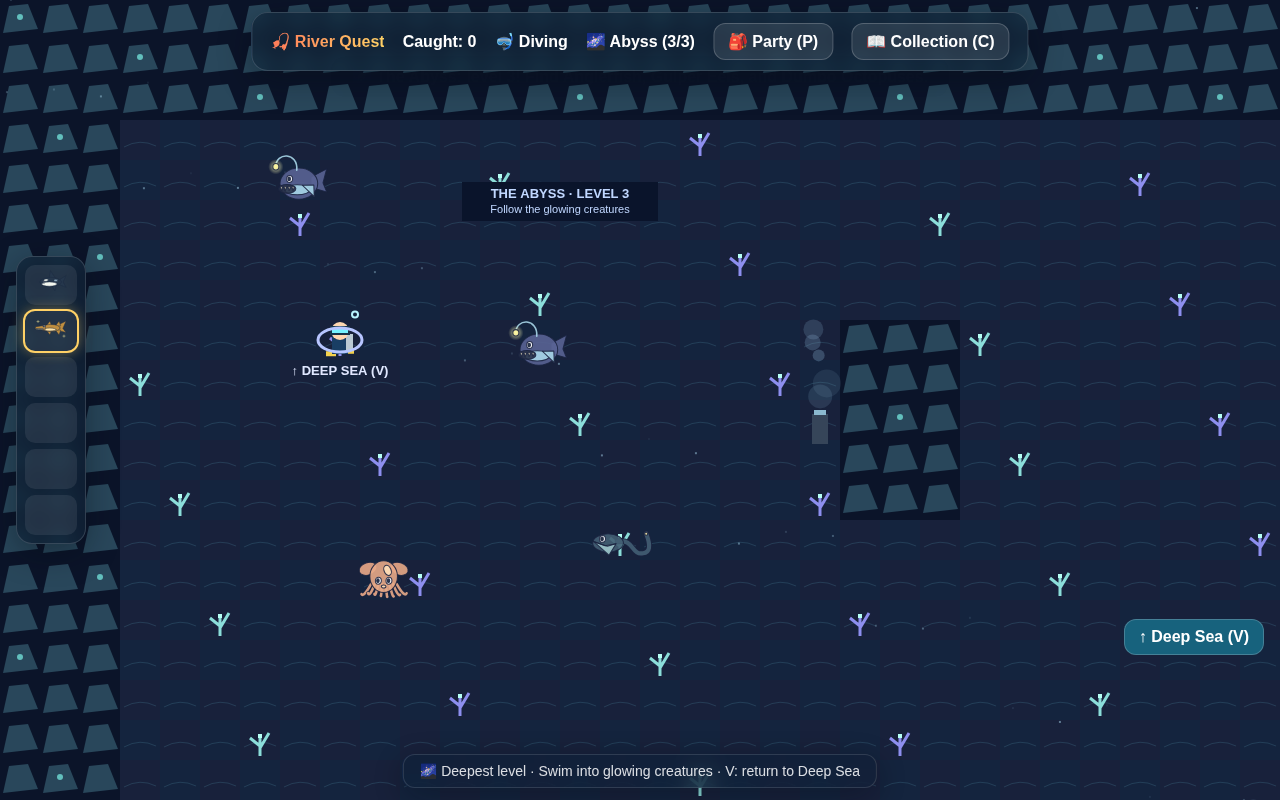
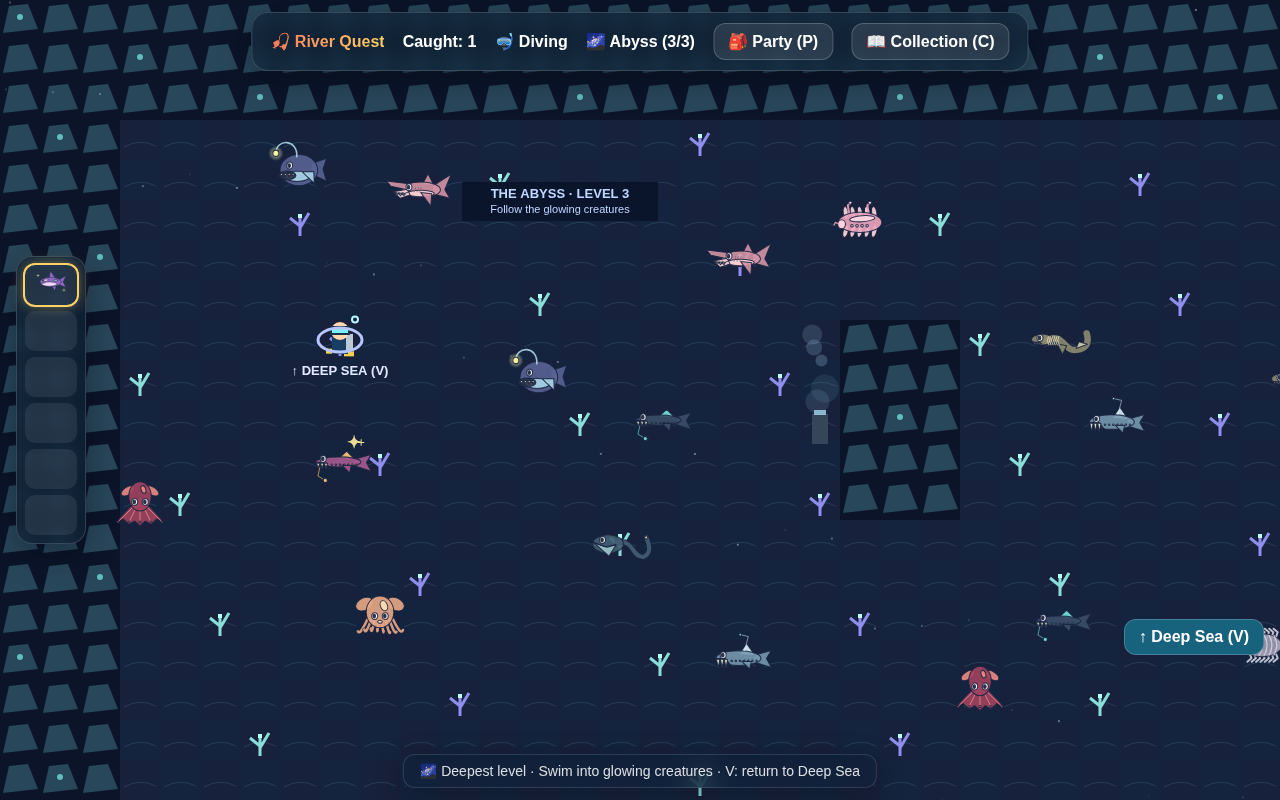
Add nine more Abyss creatures with unique shiny sprites

diff --git a/game.js b/game.js
@@ -53,7 +53,10 @@ const SPECIES = [
   ...[['mosasaurus','Mosasaurus'],['megalodon','Megalodon'],['elasmosaurus','Elasmosaurus']].map(([id,name])=>({
     id,name,water:true,habitat:'deep-generator',rate:1,draw:(...a)=>drawDeepCreature(id,...a),
   })),
-  ...[['anglerfish','Anglerfish'],['gulper-eel','Gulper Eel'],['dumbo-octopus','Dumbo Octopus']].map(([id,name])=>({
+  ...[['anglerfish','Anglerfish'],['gulper-eel','Gulper Eel'],['dumbo-octopus','Dumbo Octopus'],
+    ['goblin-shark','Goblin Shark'],['frilled-shark','Frilled Shark'],['viperfish','Viperfish'],
+    ['dragonfish','Dragonfish'],['barreleye','Barreleye'],['vampire-squid','Vampire Squid'],
+    ['giant-isopod','Giant Isopod'],['nautilus','Nautilus'],['sea-pig','Sea Pig']].map(([id,name])=>({
     id,name,water:true,abyssOnly:true,rate:.95,draw:(...a)=>drawAbyssCreature(id,...a),
   })),
 ];
@@ -202,11 +205,21 @@ function drawCaveCreature(id, c, x, y, s, shiny = false, t = 0) {
 function drawAbyssCreature(id,c,x,y,s,shiny=false,t=0) {
   const palettes={anglerfish:['#596394','#a7d6e8','#c081c4','#fbe2a1'],
     'gulper-eel':['#435e73','#9dc5ca','#9762be','#e5bfff'],
-    'dumbo-octopus':['#e8aa87','#ffe0b9','#81b4e0','#d8f7ff']};
+    'dumbo-octopus':['#e8aa87','#ffe0b9','#81b4e0','#d8f7ff'],
+    'goblin-shark':['#d395a5','#f9d4d5','#76bac9','#d4f9ef'],
+    'frilled-shark':['#8d8c70','#d6cfb0','#ad79cb','#ecd3ff'],
+    viperfish:['#7698af','#d9f4fb','#ddad53','#fff0bd'],
+    dragonfish:['#3b4e68','#75e4db','#a65b90','#ffcc78'],
+    barreleye:['#587b98','#a1ebcb','#ac82c5','#ffda85'],
+    'vampire-squid':['#9e435e','#ed8b83','#597ad3','#b2e4ff'],
+    'giant-isopod':['#9f9baf','#d3d2e2','#d59c6a','#ffe0b4'],
+    nautilus:['#f1d1a5','#b87955','#9bdfcd','#438ca5'],
+    'sea-pig':['#eda6be','#ffd9e3','#8fc9ac','#d8ffe1']};
   const p=palettes[id],body=p[shiny?2:0],light=p[shiny?3:1],sway=Math.sin(t*3)*.12;
   c.save();c.translate(x,y);c.scale(s,s);c.strokeStyle='#1b2440';c.lineWidth=.045;c.lineJoin='round';c.lineCap='round';
   const oval=(x,y,rx,ry,color,angle=0)=>{c.fillStyle=color;c.beginPath();c.ellipse(x,y,rx,ry,angle,0,Math.PI*2);c.fill();c.stroke();};
   const shape=(points,color)=>{c.fillStyle=color;c.beginPath();points.forEach(([x,y],i)=>i?c.lineTo(x,y):c.moveTo(x,y));c.closePath();c.fill();c.stroke();};
+  const line=(points,color,width=.045)=>{c.strokeStyle=color;c.lineWidth=width;c.beginPath();points.forEach(([x,y],i)=>i?c.lineTo(x,y):c.moveTo(x,y));c.stroke();c.strokeStyle='#1b2440';c.lineWidth=.045;};
   const eye=(x,y)=>{oval(x,y,.13,.15,'#fff');oval(x-.02,y,.055,.08,'#17263b');};
   if(id==='anglerfish') {
     shape([[.48,-.2],[1.16,-.5+sway],[1,.05],[1.16,.5+sway],[.48,.25]],body);
@@ -224,7 +237,7 @@ function drawAbyssCreature(id,c,x,y,s,shiny=false,t=0) {
     oval(-.52,.1,.67,.4,body);shape([[-1.16,.02],[-.65,.22],[-.17,.13],[-.48,.63]],light);
     c.beginPath();c.moveTo(-1.15,.04);c.lineTo(-.55,.24);c.lineTo(-.18,.13);c.stroke();
     eye(-.76,-.08);oval(1.14,-.25+sway,.065,.065,'#f7e8a4');
-  } else {
+  } else if(id==='dumbo-octopus') {
     for(let i=0;i<8;i++) {
       const x=-.55+i*.16;c.strokeStyle='#1b2440';c.lineWidth=.17;c.beginPath();c.moveTo(x,.25);
       c.quadraticCurveTo(x*1.6,.9+sway,x*1.75,.72+Math.sin(t*3+i)*.08);c.stroke();c.strokeStyle=body;c.lineWidth=.11;c.stroke();
@@ -233,6 +246,86 @@ function drawAbyssCreature(id,c,x,y,s,shiny=false,t=0) {
     oval(-.68,-.42,.4,.27,body,-.4-sway);oval(.68,-.42,.4,.27,body,.4+sway);
     oval(0,-.08,.6,.69,body);oval(.17,-.35,.15,.23,light,-.4);
     eye(-.23,.1);eye(.23,.1);oval(0,.35,.1,.065,light);
+  } else if(id==='goblin-shark') {
+    shape([[.55,-.13],[1.35,-.7+sway],[1.08,.03],[1.3,.34+sway],[.55,.2]],body);
+    shape([[.1,-.2],[.35,-.67],[.6,-.17]],body);
+    oval(.05,.03,.84,.34,body);oval(.03,.19,.59,.14,light);
+    shape([[-.48,-.23],[-1.45,-.35],[-1.27,-.12],[-.5,.04]],body);
+    shape([[-.55,.01],[-1.18,.12],[-.86,.4],[-.43,.26]],light);
+    line([[-1.13,.14],[-.78,.24],[-.5,.12]],'#1b2440');
+    for(let i=0;i<3;i++)shape([[-1.08+i*.15,.16],[-1+i*.15,.29],[-.94+i*.15,.19]],'#fff9dc');
+    shape([[.03,.15],[.47,.68+sway],[.51,.2]],body);eye(-.48,-.08);
+    for(let i=0;i<3;i++)line([[-.19+i*.12,-.07],[-.25+i*.12,.12]],'#75586d',.03);
+  } else if(id==='frilled-shark') {
+    c.strokeStyle='#1b2440';c.lineWidth=.37;c.beginPath();c.moveTo(-.6,-.03);c.bezierCurveTo(.15,-.4,.17,.5,.73,.38);c.quadraticCurveTo(1.35,.3,1.16,-.39+sway);c.stroke();
+    c.strokeStyle=body;c.lineWidth=.28;c.stroke();c.strokeStyle='#1b2440';c.lineWidth=.045;
+    shape([[.7,.33],[.82,.03],[1.2,.14]],light);
+    shape([[-.13,.13],[.11,.59],[.29,.21]],body);
+    oval(-.77,-.06,.47,.24,body);eye(-.87,-.13);
+    line([[-1.18,.04],[-.79,.12]],'#1b2440');
+    for(let i=0;i<6;i++)line([[-.5+i*.09,-.19],[-.55+i*.09,-.01],[-.48+i*.09,.17]],light,.045);
+    for(let i=0;i<3;i++)shape([[-1.17+i*.11,.05],[-1.11+i*.11,.16],[-1.06+i*.11,.08]],'#fff5d9');
+  } else if(id==='viperfish'||id==='dragonfish') {
+    const dragon=id==='dragonfish';
+    shape([[.61,-.12],[1.36,-.39+sway],[1.15,.02],[1.36,.34+sway],[.61,.17]],body);
+    shape([[-.05,-.16],[.29,dragon?-.47:-.64],[.66,-.1]],light);
+    oval(-.07,0,.98,dragon?.22:.32,body);
+    shape([[-1.08,.01],[-.62,.03],[-.39,.32],[-.99,.24]],'#1d293e');
+    for(let i=0;i<3;i++)shape([[-1.02+i*.17,.04],[-.95+i*.17,dragon?.28:.43],[-.88+i*.17,.06]],'#f4f7dd');
+    eye(-.73,-.13);
+    for(let i=0;i<7;i++)oval(-.36+i*.18,.12,.033,.033,dragon?light:'#a4ffef');
+    shape([[.08,.14],[.42,.48],[.49,.15]],body);
+    if(dragon){line([[-.88,.25],[-.96,.61],[-.64,.74+sway]],light,.03);oval(-.64,.74+sway,.09,.09,light);}
+    else {line([[.2,-.32],[.36,-.94],[.01,-1.02]],light,.025);oval(.01,-1.02,.055,.055,'#a4ffef');}
+  } else if(id==='barreleye') {
+    shape([[.55,-.19],[1.18,-.51+sway],[1.05,0],[1.18,.51+sway],[.55,.2]],light);
+    oval(.06,.1,.85,.38,body);
+    oval(-.49,-.2,.58,.53,shiny?'#dcb5ed88':'#c2fff488');
+    for(const x of[-.69,-.36]){oval(x,-.23,.13,.28,light,-.15);oval(x-.02,-.42,.09,.07,shiny?'#fff2ac':'#deffb4');}
+    c.strokeStyle='#d8ffff';c.lineWidth=.025;c.beginPath();c.ellipse(-.49,-.2,.58,.53,0,Math.PI,Math.PI*1.6);c.stroke();c.strokeStyle='#1b2440';c.lineWidth=.045;
+    oval(-.88,.12,.04,.04,'#25304a');line([[-.98,.25],[-.73,.29]],'#1b2440',.03);
+    shape([[.01,.19],[.35,.65],[.6,.23]],light);
+  } else if(id==='vampire-squid') {
+    const hem=.85+sway;
+    shape([[0,-.2],[-1.04,hem],[-.73,hem-.13],[-.48,hem+.12],[-.23,hem-.04],[0,hem+.18],[.23,hem-.04],[.48,hem+.12],[.73,hem-.13],[1.04,hem]],body);
+    for(const end of[-.95,-.48,0,.48,.95]){
+      line([[end*.18,.13],[end,hem]],light,.04);
+      oval(end,hem,.045,.045,light);
+    }
+    oval(-.53,-.44,.33,.17,light,-.5-sway);oval(.53,-.44,.33,.17,light,.5+sway);
+    oval(0,-.2,.49,.64,body);oval(.15,-.5,.1,.17,light,-.3);
+    eye(-.23,.04);eye(.23,.04);
+  } else if(id==='giant-isopod') {
+    for(let i=0;i<7;i++)for(const side of[-1,1]){
+      const x=-.5+i*.19;line([[x,side*.2],[x+.13,side*(.55+sway*.3)],[x-.05,side*.72]],light,.085);
+    }
+    shape([[.69,-.2],[1.13,-.32],[1.27,0],[1.13,.32],[.69,.2]],light);
+    oval(.08,0,.87,.5,body);
+    for(let i=0;i<6;i++){
+      const x=-.44+i*.21;c.strokeStyle=light;c.lineWidth=.055;c.beginPath();c.moveTo(x,-.42);c.quadraticCurveTo(x+.24,0,x,.42);c.stroke();
+    }
+    c.strokeStyle='#1b2440';c.lineWidth=.045;oval(-.68,0,.34,.35,body);
+    for(const side of[-1,1]){line([[-.87,side*.14],[-1.17,side*.34],[-1.35,side*(.24+sway)]],light,.035);oval(-.82,side*.17,.06,.07,'#17263b');}
+  } else if(id==='nautilus') {
+    for(let i=0;i<8;i++){
+      const y=(i-3.5)*.11;line([[-.51,.2],[-.99,y+.18],[-1.28-Math.sin(i)*.08,y+.3+sway]],body,.06);
+    }
+    oval(.17,-.06,.77,.76,body);
+    for(let i=0;i<11;i++){
+      const a=i*.5;line([[.17+Math.cos(a)*.55,-.06+Math.sin(a)*.55],[.17+Math.cos(a+.12)*.73,-.06+Math.sin(a+.12)*.73]],light,.085);
+    }
+    c.strokeStyle=light;c.lineWidth=.055;c.beginPath();
+    for(let i=0;i<=100;i++){const a=i*.15,r=.03+i*.0056;const px=.17+Math.cos(a)*r,py=-.06+Math.sin(a)*r;i?c.lineTo(px,py):c.moveTo(px,py);}c.stroke();
+    c.strokeStyle='#1b2440';c.lineWidth=.045;
+    oval(-.53,.27,.32,.25,light);eye(-.63,.2);
+  } else if(id==='sea-pig') {
+    for(let i=0;i<5;i++)for(const side of[-1,1])oval(-.62+i*.31,side*.4,.11,.27,light,side*.2+sway);
+    for(const x of[-.45,.4]){
+      line([[x,-.24],[x-.08,-.78+sway],[x+.03,-.9+sway]],body,.09);oval(x+.03,-.9+sway,.075,.065,light);
+    }
+    oval(0,.02,.95,.44,body);oval(.1,-.14,.55,.13,light,-.08);
+    for(let i=0;i<4;i++)oval(-.35+i*.22,.17,.055,.055,light);
+    oval(-.8,.1,.17,.2,light);line([[-.94,.08],[-1.07,.02],[-1.13,.13]],body,.055);
   }
   if(shiny){c.strokeStyle='#fff2a6';c.lineWidth=.045;c.beginPath();c.moveTo(.8,-.85);c.lineTo(1.04,-.85);c.moveTo(.92,-.97);c.lineTo(.92,-.73);c.stroke();}
   c.restore();
@@ -934,11 +1027,13 @@ for(const [cx,cy]of[[22,10],[15,24],[32,22]])
   for(let y=cy-2;y<=cy+2;y++)for(let x=cx-1;x<=cx+1;x++)abyssMap[y][x]=CW;
 const abyssTiles=[],abyssWildlife=[],abyssRandom=rng(3003);
 for(let y=0;y<H;y++)for(let x=0;x<W;x++)if(abyssMap[y][x]===WA)abyssTiles.push({x,y});
-const abyssFirstSpawns={'anglerfish':{x:13,y:8},'gulper-eel':{x:15,y:13},'dumbo-octopus':{x:9,y:14}};
+const abyssFirstSpawns={'anglerfish':{x:13,y:8},'gulper-eel':{x:15,y:13},'dumbo-octopus':{x:9,y:14},
+  'goblin-shark':{x:18,y:6},'frilled-shark':{x:26,y:8},viperfish:{x:18,y:16},dragonfish:{x:26,y:15},
+  barreleye:{x:10,y:20},'vampire-squid':{x:25,y:27},'giant-isopod':{x:36,y:14},nautilus:{x:35,y:29},'sea-pig':{x:8,y:29}};
 for(const sp of SPECIES.filter(s=>s.abyssOnly))for(let i=0;i<5;i++) {
   const free=abyssTiles.filter(p=>Math.hypot(p.x-abyssEntrance.x,p.y-abyssEntrance.y)>3 &&
     !abyssWildlife.some(m=>m.x===p.x&&m.y===p.y));
-  const first=abyssFirstSpawns[sp.id],spot=(i===0&&free.find(p=>p.x===first.x&&p.y===first.y))||free[Math.floor(abyssRandom()*free.length)];
+  const first=abyssFirstSpawns[sp.id],spot=(i===0&&first&&free.find(p=>p.x===first.x&&p.y===first.y))||free[Math.floor(abyssRandom()*free.length)];
   abyssWildlife.push({id:sp.id,...spot,fx:spot.x,fy:spot.y,progress:1,shiny:abyssRandom()<1/8,moveIn:2+abyssRandom()*2,life:60+abyssRandom()*40});
 }
 function currentDiveLayer() {
@@ -1203,7 +1298,7 @@ function toggleDepth() {
   const destination=currentDiveLayer().entrance;
   Object.assign(P,{...destination,fx:destination.x,fy:destination.y,prog:1,diving:true,boat:false});
   fishing=null;keys.clear();ignoredTrainer=null;diveGrace=encounterGrace=4;
-  toast(abyssDiving?'🌌 The Abyss: level 3! Find Anglerfish, Gulper Eels, and Dumbo Octopuses.':'🌊 Deep Sea: level 2! Meet diver trainers, find stones, or press B to explore the Abyss.');
+  toast(abyssDiving?'🌌 The Abyss: level 3! Discover 12 species, including Goblin Sharks, Vampire Squid, and Sea Pigs.':'🌊 Deep Sea: level 2! Meet diver trainers, find stones, or press B to explore the Abyss.');
   hud();persist();
 }
 function toggleDive() {

diff --git a/index.html b/index.html
@@ -7,7 +7,7 @@
   <meta name="description" content="Explore rivers by boat, fish for Magikarp and catch wild animals in the tall grass." />
   <link rel="preconnect" href="https://fonts.googleapis.com" />
   <link href="https://fonts.googleapis.com/css2?family=Outfit:wght@400;600;800&display=swap" rel="stylesheet" />
-  <link rel="stylesheet" href="style.css?v=abyss-1" />
+  <link rel="stylesheet" href="style.css?v=abyss-2" />
 </head>
 <body>
   <main>
@@ -113,6 +113,6 @@
       <button id="btn-a" class="abtn">🎣</button>
     </div>
   </main>
-  <script src="game.js?v=abyss-1"></script>
+  <script src="game.js?v=abyss-2"></script>
 </body>
 </html>

diff --git a/DEVELOPMENT.md b/DEVELOPMENT.md
@@ -73,7 +73,7 @@ catch, preserving shiny state and saved Party/Box entries.
 The ten new woodland species share weight 20 each in the meadow encounter pool
 (16 total meadow species), including sparkling grass. They have no fishing weight
 and do not enter the separate winter or mountain pools. Verify distinct normal
-and shiny sprites for encounters, Party/Box, Collection (56 species), and battles,
+and shiny sprites for encounters, Party/Box, Collection (65 species), and battles,
 as well as catch/save/reload compatibility with existing saves.
 Fishing shiny probabilities: Alligator 75%; Shark, Catfish, Grunt, Spiny Dogfish,
 and Crocodile 50%; Magikarp and Frog retain 1/8. Sparkling casts guarantee a shiny
@@ -128,7 +128,7 @@ There are 18 cave creatures, three each of Mole, Ant, Spider, Cricket, Praying
 Mantis, and Cave Crawfish. They only encounter by contact underground. Crawfish
 stay in shallow pools; the others stay on dirt. All have distinct normal/shiny
 sprites. They never join surface, fishing, winter, mountain, or diving pools.
-Check movement and respawn boundaries, capture, Party/Box, Collection (56 species),
+Check movement and respawn boundaries, capture, Party/Box, Collection (65 species),
 preview sprites, and persistence. Cave encounters use a separate cave background.
 Old saves without underground default to the surface; cave saves reload on the
 cave layer, with invalid cave positions recovered at the ladder. Surface wildlife
@@ -191,7 +191,7 @@ the four species enters meadow, fishing, normal cave, or swimmer pools. Encounte
 also checks the calendar to prevent stale seasonal availability.
 
 Test all four normal/shiny sprite pairs, catching, and save/reload into November.
-Party, Box, and Collection (56 species) must keep seasonal catches after the event.
+Party, Box, and Collection (65 species) must keep seasonal catches after the event.
 An in-progress encounter may finish after midnight; only new spawns are gated.
 
 ## Deep Sea validation
@@ -233,9 +233,15 @@ retains the level-1 position. Validate both return points and repair invalid sav
 positions to the appropriate entrance. Old deep saves without abyssDiving remain
 on level 2. Neither cave nor surface seasonal updates should change the dive map.
 
-The Abyss has five of each exclusive species: Anglerfish, Gulper Eel, and Dumbo
-Octopus. Test unique normal/shiny art, reachable spawn tiles, respawn bounds,
-collision capture, saved shiny catches, and exclusion from other wildlife pools.
+The Abyss has 60 swimmers, five of each of 12 exclusive species: Anglerfish, Gulper
+Eel, Dumbo Octopus, Goblin Shark, Frilled Shark, Viperfish, Dragonfish, Barreleye,
+Vampire Squid, Giant Isopod, Nautilus, and Sea Pig. Test unique normal/shiny art at
+swimmer, encounter, icon, and battle sizes; reachable spawn tiles; respawn bounds;
+collision capture; saved shiny catches; and exclusion from other wildlife pools.
+Load a pre-expansion Abyss save to verify old catches, generator rewards, trainer
+wins, and both return points survive while all new species become available.
+Catch new species into both Party and a full-party Box, reload, and use one in a
+diver battle. Collection must list 65 species and preview every shiny form.
 No stone piles, generator interactions, or level-2 trainers appear in the Abyss.
 
 Level-2 diver trainers have separate IDs in trainerWins. Their tiles block movement

diff --git a/README.md b/README.md
@@ -128,7 +128,7 @@ that chance, and a second ball always succeeds if your party is still in the fig
 Creatures won't run away after breaking free, but they may knock out your party.
 You have four seconds to reel in after a bite.
 
-Discover 56 species across the meadows, rivers, caves, seasonal forest, and three
+Discover 65 species across the meadows, rivers, caves, seasonal forest, and three
 diving levels, including Magikarp, Bouldersaur, Orca, and Anglerfish.
 Every species has a shiny form, including pink Bunny, blue Duck, purple
 Squirrel, blue Fox, and mint Hedgehog. Magikarp, Frog, and Bouldersaur keep their
@@ -138,7 +138,7 @@ You can move even the last creature into the Box, or choose **Move all to Box**
 to empty your party at once. Your creatures and Collection progress stay saved.
 Click any creature in the Box to add it back. Put at least one in your party
 before approaching a trainer to battle.
-In Collection, choose **✨ Preview shiny forms** to see all 56 shiny designs
+In Collection, choose **✨ Preview shiny forms** to see all 65 shiny designs
 without changing your catches or saved progress. Bunny, Duck, Squirrel, Fox,
 and Hedgehog use drawn sprites so their colors are consistent across devices.
 
@@ -209,9 +209,20 @@ divers show a check mark. Your party recovers after the battle.
 ## The Abyss — diving level 3
 
 From the Deep Sea, press **B / Dive to Abyss** to reach the third and deepest level.
-Explore glowing coral and underwater vents, and swim into **Anglerfish, Gulper
-Eels, and Dumbo Octopuses**. These three species appear only here, each with a
-distinct shiny form. Your catches and position save automatically.
+Explore glowing coral and underwater vents to find **12 species** exclusive to
+this level:
+
+- **Anglerfish, Gulper Eel, and Dumbo Octopus**
+- **Goblin Shark, Frilled Shark, and Viperfish**
+- **Dragonfish, Barreleye, and Vampire Squid**
+- **Giant Isopod, Nautilus, and Sea Pig**
+
+There are 60 roaming creatures, five of each species. Swim into one to encounter
+it, weaken it with Attack, and throw a ball to catch it. Every species has its own
+sprite and shiny colors, visible while swimming, in encounters, in your Party or
+Box, in Collection, and in trainer battles. Look for the star beside shiny swimmers!
+Your catches and position save automatically, and existing saves gain the new
+creatures as soon as the updated game loads.
 
 ![The Abyss with glowing deep-sea creatures and a return marker](docs/screenshots/abyss.png)
 
@@ -220,7 +231,7 @@ Press V again for the shallows and once more for your boat. B always goes down
 one level; V goes up one level. The stone generator and diver trainers are on
 level 2. There is no oxygen timer.
 
-![Normal and shiny Anglerfish, Gulper Eel, and Dumbo Octopus](docs/screenshots/abyss-creatures.png)
+![All twelve Abyss species, each shown in normal and shiny colors](docs/screenshots/abyss-creatures.png)
 
 ## Weakening and wild-creature battles
 
